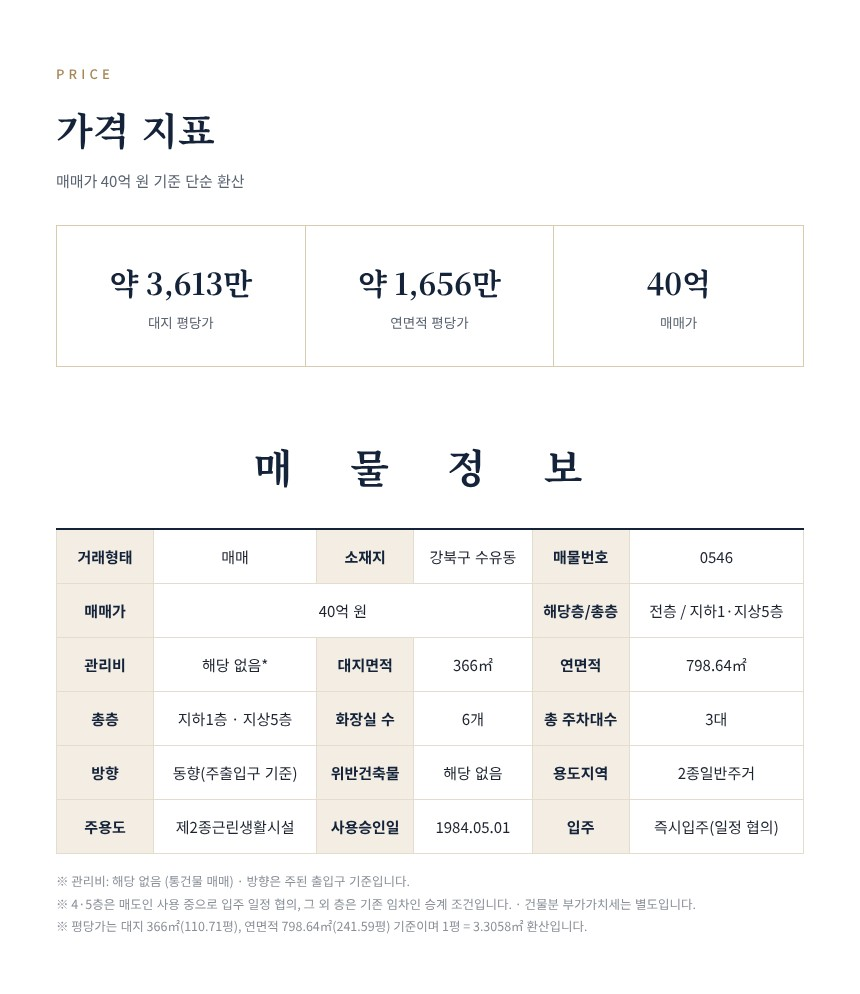
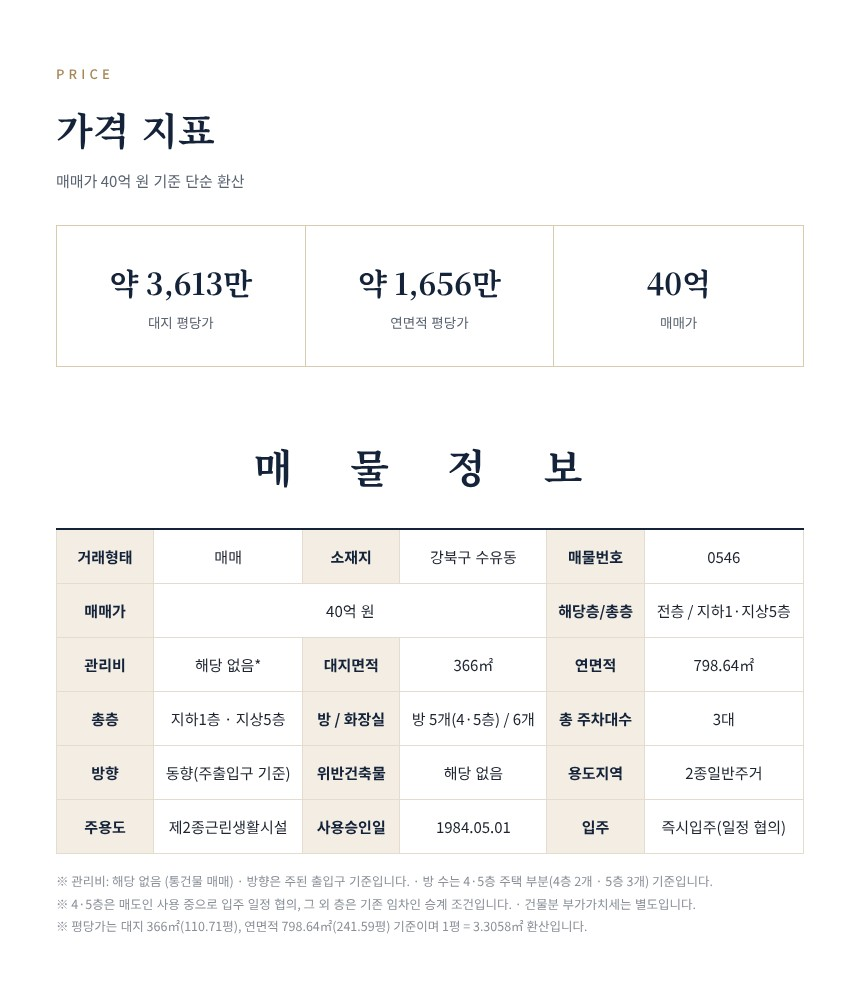
0546 방 수(4·5층 주택 5개) 표기 추가
Claude-Session: https://claude.ai/code/session_01HYbacd3moSgMXGksR74wfE

diff --git a/0546/index.html b/0546/index.html
@@ -29,7 +29,7 @@
 <h1>강북구 수유동 삼양로 대로변 코너 근생건물 매매</h1>
 <p class="dsub">대지 110.71평 · 지하 1층~지상 5층 · 4·5층 주택 포함</p>
 <p class="dprice">40억<span>원</span></p>
-<ul class="sum"><li>서울특별시 강북구 수유동 · 제2종일반주거지역</li><li>지하 1층~지상 5층 · 제2종근린생활시설(4·5층 단독주택) · 1984년 사용승인</li><li>대지 366㎡(110.71평) · 연면적 798.64㎡(241.59평) · 동향(주출입구 기준) · 주차 3대 · 화장실 6개</li><li>매매가 40억 원</li><li>즉시입주(일정 협의) · 4·5층 매도인 사용 중, 그 외 층 임차인 승계 (층별 임대 조건은 상담 시 안내)</li><li>삼양로 대로변 코너 · 우이신설선 삼양역 도보 약 6분 (카카오맵 기준)</li></ul>
+<ul class="sum"><li>서울특별시 강북구 수유동 · 제2종일반주거지역</li><li>지하 1층~지상 5층 · 제2종근린생활시설(4·5층 단독주택) · 1984년 사용승인</li><li>대지 366㎡(110.71평) · 연면적 798.64㎡(241.59평) · 동향(주출입구 기준) · 주차 3대 · 방 5개(4·5층 주택) · 화장실 6개</li><li>매매가 40억 원</li><li>즉시입주(일정 협의) · 4·5층 매도인 사용 중, 그 외 층 임차인 승계 (층별 임대 조건은 상담 시 안내)</li><li>삼양로 대로변 코너 · 우이신설선 삼양역 도보 약 6분 (카카오맵 기준)</li></ul>
 <a class="btn" href="tel:02-987-0077">전화 문의하기 02-987-0077</a>
 </div></div>
 <div class="dimgs"><img src="/img/0546/01.jpg" alt="강북구 수유동 삼양로 대로변 코너 근생건물 매매 상세 1" loading="lazy"><img src="/img/0546/02.jpg" alt="강북구 수유동 삼양로 대로변 코너 근생건물 매매 상세 2" loading="lazy"><img src="/img/0546/03.jpg" alt="강북구 수유동 삼양로 대로변 코너 근생건물 매매 상세 3" loading="lazy"><img src="/img/0546/04.jpg" alt="강북구 수유동 삼양로 대로변 코너 근생건물 매매 상세 4" loading="lazy"><img src="/img/0546/05.jpg" alt="강북구 수유동 삼양로 대로변 코너 근생건물 매매 상세 5" loading="lazy"><img src="/img/0546/06.jpg" alt="강북구 수유동 삼양로 대로변 코너 근생건물 매매 상세 6" loading="lazy"><img src="/img/0546/07.jpg" alt="강북구 수유동 삼양로 대로변 코너 근생건물 매매 상세 7" loading="lazy"><img src="/img/0546/08.jpg" alt="강북구 수유동 삼양로 대로변 코너 근생건물 매매 상세 8" loading="lazy"></div>
